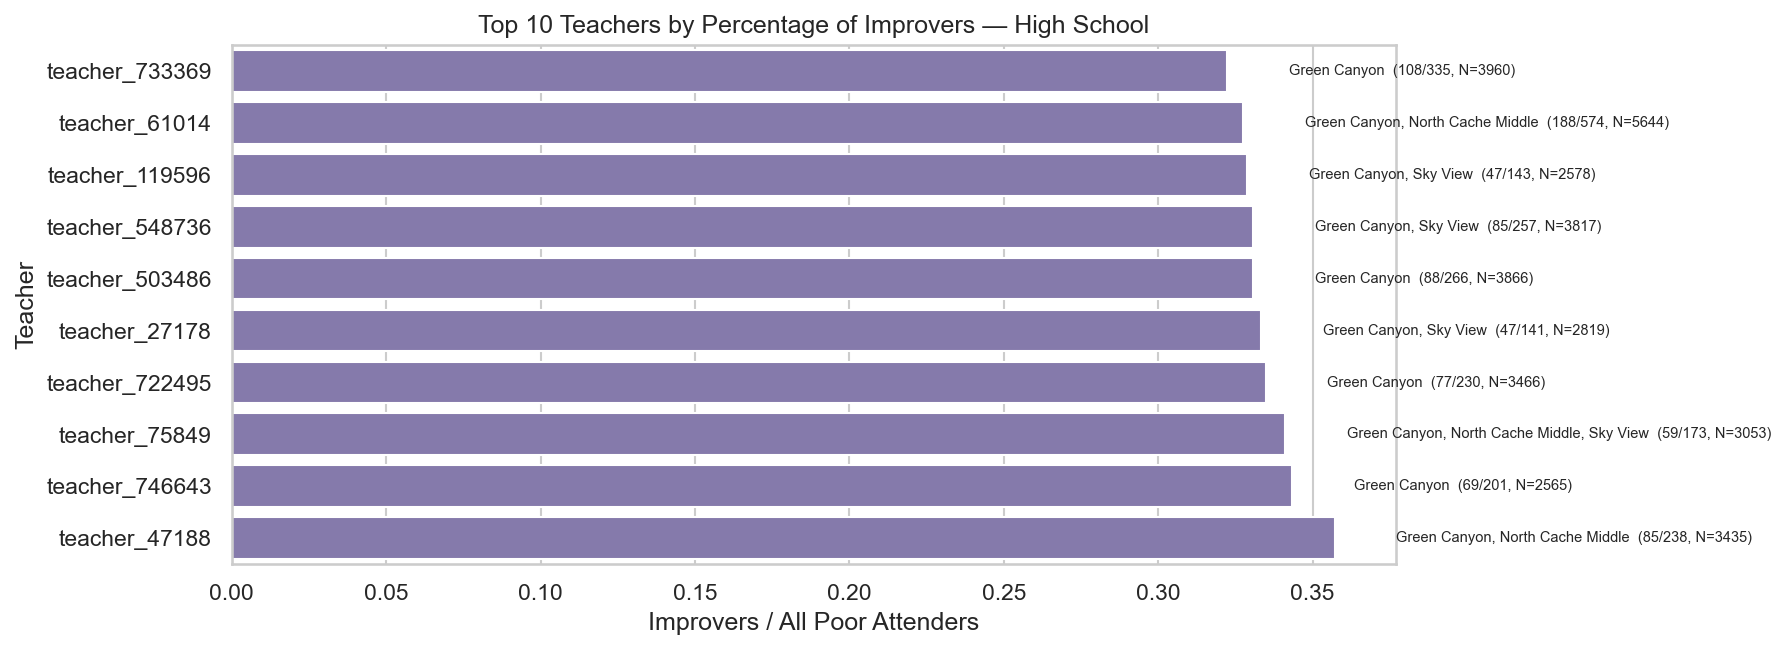
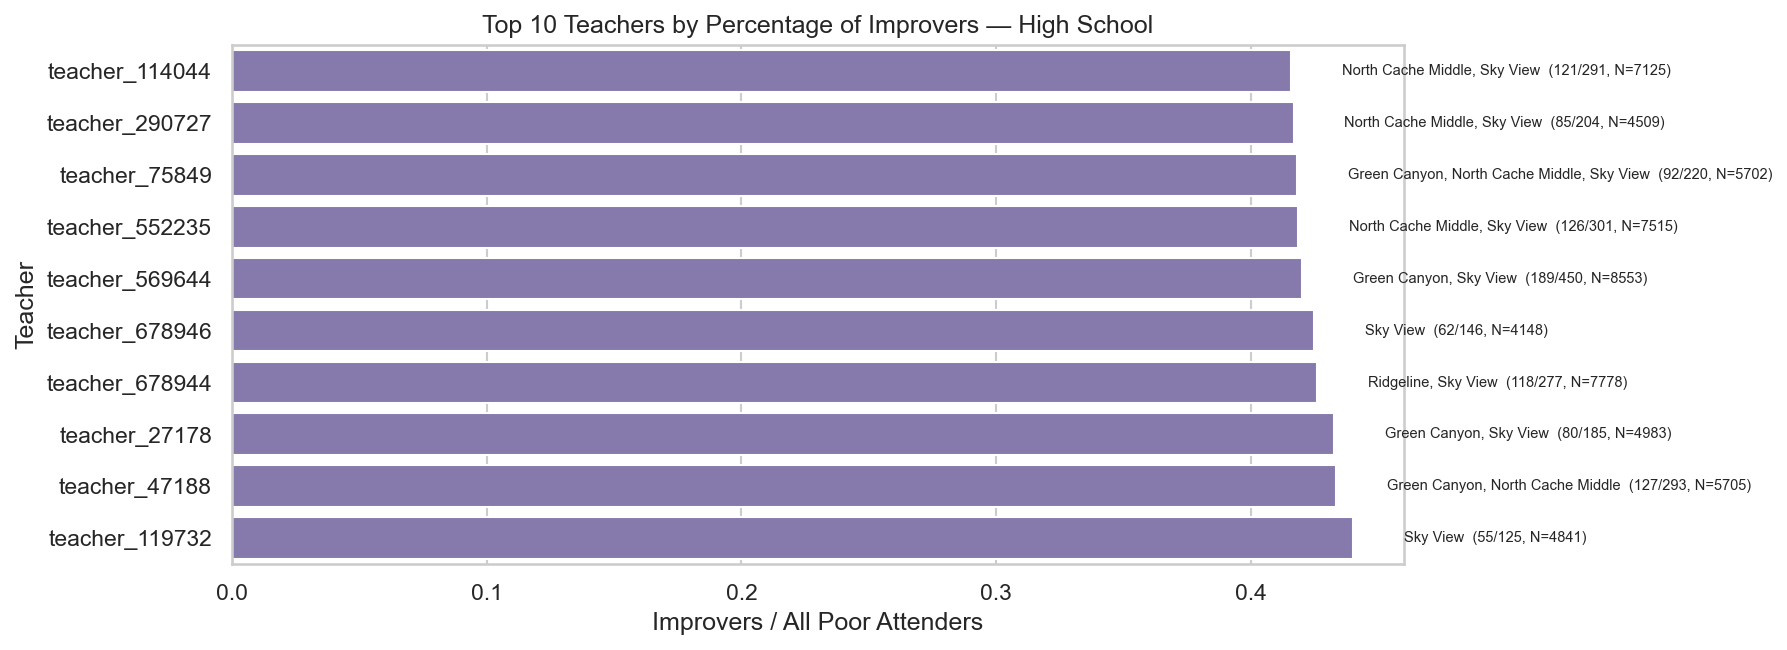
remove year / exit code filters, clean up chart titles

diff --git a/code/08_attendance.py b/code/08_attendance.py
@@ -110,7 +110,7 @@ _cbase["_school"] = (_cbase["current_school"].astype(str).str.strip()
 _cbase_gpa = _cbase[_cbase["overall_gpa"].notna() & (_cbase["_grade"] >= 7)].copy()
 
 # Demographics chart (5)
-_dbase = df[df["school_membership"] > 119].copy()
+_dbase = df[df["school_membership"] >= MIN_MEMBERSHIP].copy()
 _dbase["_pct_absent"] = 100.0 * _dbase["days_absent"].fillna(0) / _dbase["school_membership"]
 _dbase["_chronic"] = _dbase["_pct_absent"] >= CHRONIC_ABSENT_PCT
 _dbase["_disability_group"] = np.where(
@@ -126,9 +126,7 @@ _base_imp = df[
 ].copy()
 if "exit_code" in _base_imp.columns:
     _exit_num = pd.to_numeric(_base_imp["exit_code"], errors="coerce")
-    _base_imp = _base_imp[_exit_num.isna() | (_exit_num == 0)].copy()
 _base_imp = _base_imp[_base_imp["current_school"].astype(str).str.strip().str.lower() != "other"].copy()
-_base_imp = _base_imp[_base_imp["year"] >= 2022].copy()
 _base_imp["current_school"] = _base_imp["current_school"].astype(str).str.strip()
 _base_imp = _base_imp[
     (_base_imp["current_school"] != "") & (_base_imp["current_school"] != "nan")
@@ -210,7 +208,7 @@ _impr_pair["fg_grade"] = pd.to_numeric(_impr_pair["fg_grade"], errors="coerce")
 # CHART 1 — Overall attendance bins through the district
 # ═══════════════════════════════════════════════════════════════════════════════
 
-_base1 = df[(df["school_membership"] > 119) & df["percent_days_attended"].between(0, 100)].copy()
+_base1 = df[(df["school_membership"] >= MIN_MEMBERSHIP) & df["percent_days_attended"].between(0, 100)].copy()
 _bins1 = np.arange(0, 105, 5)
 _labels1 = [f"{i}-{i + 5}" for i in range(0, 100, 5)]
 _base1["att_bucket"] = pd.cut(_base1["percent_days_attended"], bins=_bins1, labels=_labels1, include_lowest=True, right=True)
@@ -233,7 +231,7 @@ plt.close(fig)
 # ═══════════════════════════════════════════════════════════════════════════════
 
 _base_gpa = df[
-    (df["school_membership"] > 119) &
+    (df["school_membership"] >= MIN_MEMBERSHIP) &
     df["overall_gpa"].notna() & (df["overall_gpa"] > 0) &
     (df["current_grade"] >= 7)
 ].copy()
@@ -343,17 +341,17 @@ for _bar, _row in zip(_bars, _agg3.itertuples()):
         f"n={_row.n:,}", ha="center", fontsize=7, color="#555555"
     )
 ax.set_xlabel("Grade")
-ax.set_ylabel("Percentage of eligible student-years chronically absent")
+ax.set_ylabel("Rate of Chronic Absenteeism")
 ax.set_title(
-    "Chronic absenteeism rate by grade\n"
-    f"(eligible = school_membership ≥ {MIN_MEMBERSHIP}; chronic = ≥{CHRONIC_ABSENT_PCT:.0f}% days missed)",
-    fontsize=11,
+    "Chronic Absenteeism Rate by Grade",
+    fontsize=18,
 )
 ax.yaxis.set_major_formatter(mticker.FuncFormatter(lambda x, _: f"{x:.0%}"))
 ax.set_xticks(_agg3["_grade"])
 fig.tight_layout()
-fig.savefig(FIG_DIR / "grade_chronic_rate_by_grade.png", dpi=150, bbox_inches="tight")
+fig.savefig(FIG_DIR / "chronic_absenteeism_rate_by_grade.png", dpi=150, bbox_inches="tight")
 plt.close(fig)
+print("Wrote chronic_absenteeism_rate_by_grade.png")
 
 
 # ═══════════════════════════════════════════════════════════════════════════════
@@ -479,11 +477,10 @@ for _bar, _n in zip(_sbars, _sagg["n"]):
         _bar.get_width() + 0.002, _bar.get_y() + _bar.get_height() / 2,
         f"n={_n:,}", va="center", fontsize=7, color="#555555"
     )
-ax.set_xlabel("Percentage of eligible student-years chronically absent")
+ax.set_xlabel("Rate of Chronic Absenteeism")
 ax.set_title(
-    "Chronic absenteeism rate by school\n"
-    f"(eligible = school_membership ≥ {MIN_MEMBERSHIP}; chronic = ≥{CHRONIC_ABSENT_PCT:.0f}% days missed)",
-    fontsize=11,
+    "Chronic Absenteeism Rate by School",
+    fontsize=18,
 )
 ax.xaxis.set_major_formatter(mticker.FuncFormatter(lambda x, _: f"{x:.0%}"))
 fig.tight_layout()
@@ -514,28 +511,28 @@ if _rows7:
     _w = 0.38
     fig, ax = plt.subplots(figsize=(10, 5))
     sns.set_theme(style="whitegrid")
-    ax.bar(_x - _w / 2, _gpa_df7["gpa_not"],    _w, color="#4c72b0", label="Not chronically absent")
-    ax.bar(_x + _w / 2, _gpa_df7["gpa_chronic"], _w, color="#c44e52", label="Chronically absent")
+    ax.bar(_x - _w / 2, _gpa_df7["gpa_not"],    _w, color="#4c72b0", label="Not Chronically Absent")
+    ax.bar(_x + _w / 2, _gpa_df7["gpa_chronic"], _w, color="#c44e52", label="Chronically Absent")
     ax.set_xticks(_x)
     ax.set_xticklabels(_gpa_df7["grade"].astype(int))
     ax.set_xlabel("Grade")
-    ax.set_ylabel("Mean cumulative GPA")
+    ax.set_ylabel("Mean GPA")
     ax.set_title(
-        "Mean GPA by grade (7–12): chronically absent vs not\n"
-        f"(suppressed where n < {MIN_N} in either group)",
+        "Chronically-Absent vs. Non-Chronically-Absent GPA by Grade",
         fontsize=11,
     )
     ax.legend(fontsize=9)
     fig.tight_layout()
-    fig.savefig(FIG_DIR / "grade_mean_gpa_chronic_vs_not_by_school.png", dpi=150, bbox_inches="tight")
+    fig.savefig(FIG_DIR / "chronically_absent_vs_non_chronically_absent_gpa_by_grade.png", dpi=150, bbox_inches="tight")
     plt.close(fig)
+    print("Wrote chronically_absent_vs_non_chronically_absent_gpa_by_grade.png")
 
 
 # ═══════════════════════════════════════════════════════════════════════════════
 # CHART 8 — Long-term impact: total years chronically absent vs high school GPA
 # ═══════════════════════════════════════════════════════════════════════════════
 
-_df8 = df[df["school_membership"] >= 90].copy()
+_df8 = df[df["school_membership"] >= MIN_MEMBERSHIP].copy()
 _df8["_is_chronic_yr"] = _df8["percent_days_attended"] < 90
 _chronic_yrs8 = (
     _df8.groupby("student_number")["_is_chronic_yr"]
@@ -550,11 +547,11 @@ sns.set_theme(style="whitegrid")
 sns.boxplot(data=_df8, x="years_chronic_total", y="overall_gpa", palette="viridis", ax=ax)
 ax.set_xlabel("Total Years Student was Chronically Absent")
 ax.set_ylabel("Overall GPA")
-ax.set_title("Total Years Chronically Absent vs. High School GPA", fontsize=14)
+ax.set_title("Total Years Chronically Absent vs. GPA", fontsize=14)
 fig.tight_layout()
-fig.savefig(FIG_DIR / "Chronic Absenteeism.png", dpi=150, bbox_inches="tight")
+fig.savefig(FIG_DIR / "total_years_chronically_absent_vs_gpa.png", dpi=150, bbox_inches="tight")
 plt.close(fig)
-print("Wrote Chronic Absenteeism.png")
+print("Wrote total_years_chronically_absent_vs_gpa.png")
 
 
 # ═══════════════════════════════════════════════════════════════════════════════
